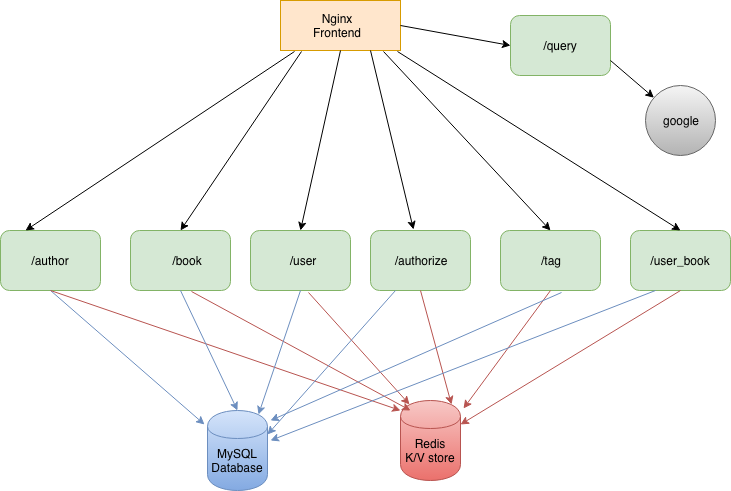
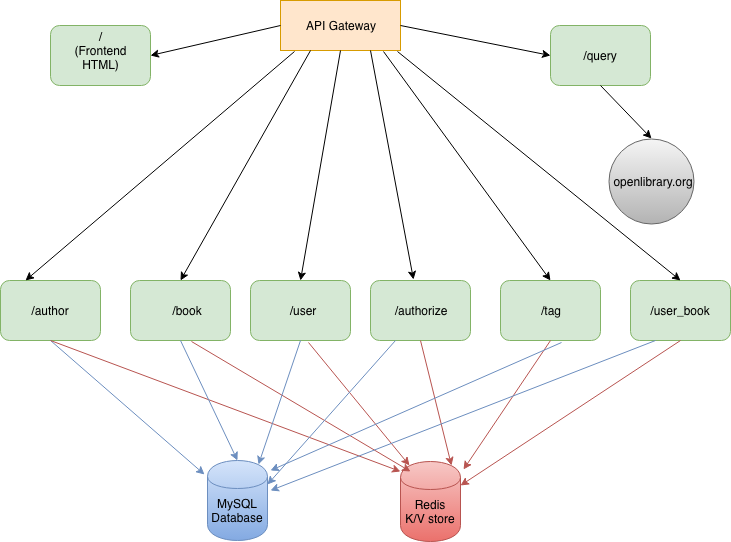
Adding frontend to README and diagram

diff --git a/README.md b/README.md
@@ -1,33 +1,65 @@
 Table of Contents
 =================
 
-
+  * [Books](#books)
+   * [tldr](#tldr)
+   * [Endpoints](#endpoints)
+      * [query](#query)
+      * [author](#author)
+      * [book](#book)
+      * [user](#user)
+      * [user_book](#user_book)
+      * [tag](#tag)
+      * [authorize](#authorize)
+      * [swagger](#swagger)
+   * [Databases](#databases)
+      * [MySQL](#mysql)
+      * [Redis](#redis)
+   * [Prerequisites](#prerequisites)
+   * [Building](#building)
+      * [Docker images used](#docker-images-used)
+      * [Frameworks used](#frameworks-used)
+   * [Customizing application deployment](#customizing-application-deployment)
+      * [Google API key](#google-api-key)
+      * [Docker image location](#docker-image-location)
+      * [Deployment Host name](#deployment-host-name)
+   * [Managing application](#managing-application)
+      * [Running application](#running-application)
+      * [Stopping application](#stopping-application)
+      * [Cleaning maven &amp; gradle cache](#cleaning-maven--gradle-cache)
+   * [Accessing the application](#accessing-the-application)
 
 # Books
-Set of webservices to support a book repository (like goodreads.com or librarything.com). This is composed of services to: query google for book titles *(/query)*, manage users *(/users)*, a book catalog *(/book)*, an author catalog *(/author)*, set of tags *(/tag)*, and sets of books per each user *(/book_users)*. Each endpoint (except */query*) requires authorization which is obtained at the */authorize* endpoint.
+Web application and collection of webservices to support a book repository (like [goodreads.com](http://goodreads.com) or [librarything.com](http://librarything.com)).
 
-The entire set of books in the database is obtained via the */book* endpoint. Same with authors of those books at the */author* endpoint. Each user may have a set of books they are tracking, which is managed through the */user_book* endpoint. Each 'user book' has a set of tags, like *sci-fi* or *e-bok*, some metadata and a rating of thumbs up (1) or thumbs down (0).
+The frontend web application is a set of webpages and javascript. This will live at the root of the host: *(/)*.
+
+The backend is composed of services to: query [openlibrary](http://openlibrary.org) for book titles and authors *(/query)*, manage users *(/users)*, a book catalog *(/book)*, an author catalog *(/author)*, a set of tags *(/tag)*, and lists of books per each user *(/book_users)*. Most endpoints requires authorization, which is obtained at the */authorize* endpoint. See the */swagger* endpoint for full information.  
+
+The entire set of books in the database is obtained via the */book* endpoint. Same with authors at the */author* endpoint. Each user may have a set of books they are tracking, which is managed through the */user_book* endpoint. Each 'user book' has a set of tags, like *sci-fi* or *e-book*, some metadata, and a rating of thumbs up (1) or thumbs down (0).
 
 There is an initial user of *admin* with same password. The *admin* user can create new users via the */user* endpoint.
 
 # tldr
 * build: *./books.sh build*
 * run: *./books.sh start*
-* url: *[http://localhost:8080/swagger/](http://localhost:8080/swagger/)*
+* swagger url: *[http://localhost:8080/swagger/](http://localhost:8080/swagger/)*
+* frontend url: *[http://localhost:8080/](http://localhost:8080/)*
 * stop: *./books.sh stop*
 * clean: *./books.sh clean*
 
 
 # Endpoints
-Each microservice (endpoint) and backend database are contained in Docker containers. All containers are attached to the Docker network *booknet*. The microservices are exposed to the outside world via a frontend proxy (API Gateway) which runs in a separate container and listens on port 8080.
+The web application, each microservice endpoint, and backend database are contained in Docker containers. All containers are attached to the Docker network *booknet*. All endpoints are exposed to the outside world via a API Gateway which runs in a separate container and listens on port 8080.
 
 ![Books Structure](https://github.com/hipposareevil/books/blob/master/diagrams/structure.png)
 
-The following REST endpoints are proxied via the API Gateway on port 8080 (configurable via the *docker-compose.yml* file).
+The following endpoints are proxied via the API Gateway on port 8080 (configurable via the *docker-compose.yml* file).
 
 Endpoint | Purpose
 --- | ---
-/query | Microservice to query google for book titles and authors.
+/ | Frontend web application. (WIP)
+/query | Microservice to query openlibrary.org for book titles and authors.
 /author | Manage list of authors in database.
 /book | Manage list of books in database. 
 /user | Manage users.
@@ -36,12 +68,14 @@ Endpoint | Purpose
 /authorize | Authorize access to endpoints.
 /swagger/ | [swagger](http://swagger.io) documentation describing the REST APIs.
 
+## /
+Frontend web application. This uses the microservices to manage the books, authors, users, user lists, and tags. Utilizes the [vue](https://vuejs.org/) framework and [bulma](http://bulma.io/) framework.
+
 ## query
-REST microservice that queries google for new authors and book titles. Would be used by frontend to add new entries to application.
-This service requires a google api key. 
+REST microservice that queries openlibrary for new authors and book titles. Would be used by frontend to add new entries to application.
 
 See [query](https://github.com/hipposareevil/books/blob/master/images/query/README.md) for more information. 
-When there is no google api key, this endpoint will just return empty results.
+
 
 ## author
 Microservice to manage the complete set of Authors in the database. Operations include: add, list all, list single and delete.
@@ -120,11 +154,13 @@ hipposareevil/alpine-gradle | Used to build web services; *query*.
 maven:3.3.9-jdk-8-alpine  | Used to build web services; author, title.
 mysql:latest | MySQL database.
 redis:3.0-alpine | Redis K/V database.
-nginx:latest | Frontend API Gateway.
+nginx:latest | API Gateway.
 openjdk:8-jdk-alpine | Base image for web services. 
 
 ## Frameworks used
 
+* [bulma css](http://bulma.io/)
+* [vue javascript](https://vuejs.org/)
 * [dropwizard](http://www.dropwizard.io/)
 * [spring boot](https://projects.spring.io/spring-boot/)
 * [swagger](http://swagger.io)
